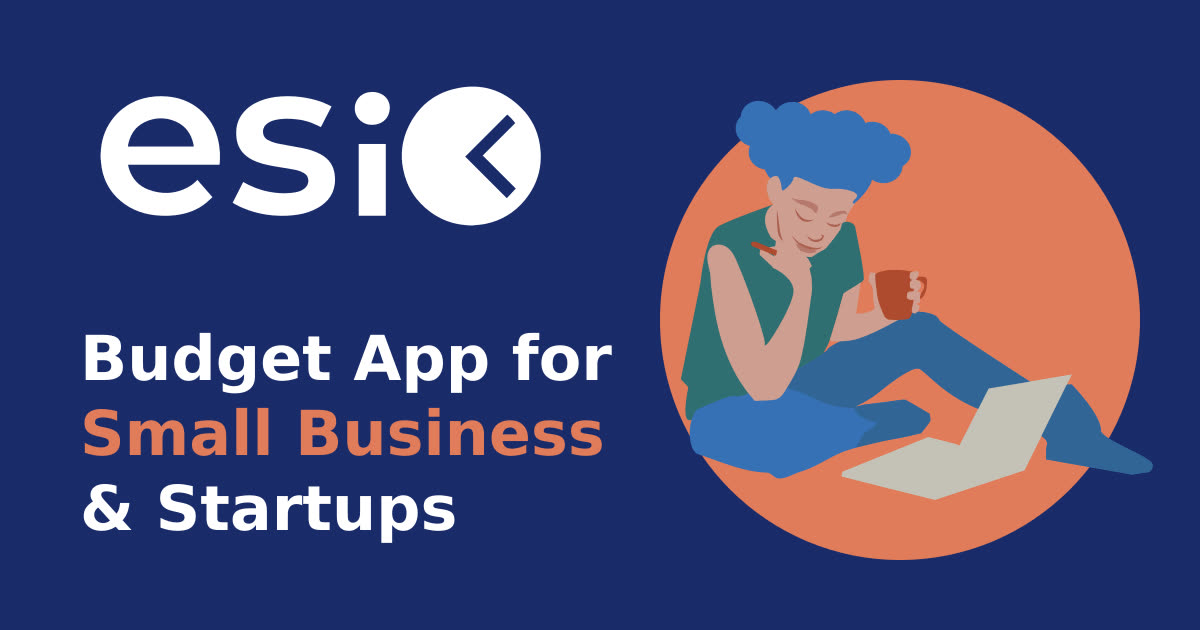
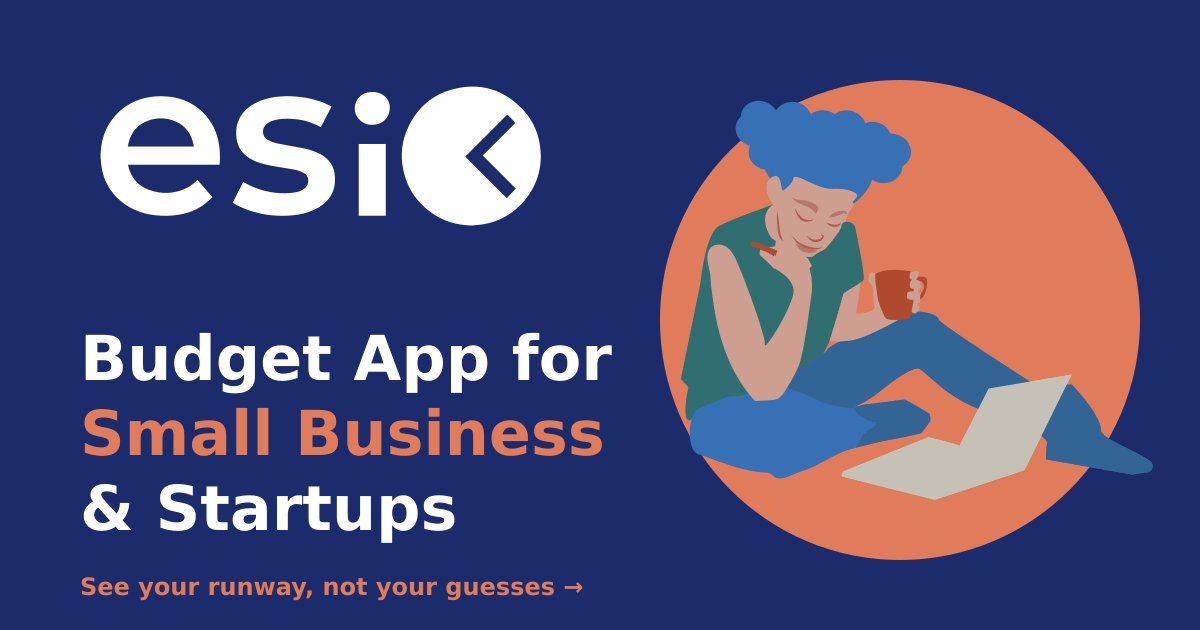
Add og card fixes

diff --git a/themes/esio-theme/layouts/_partials/head/opengraph.html b/themes/esio-theme/layouts/_partials/head/opengraph.html
@@ -13,9 +13,17 @@
   articles) flip to "article" so social platforms render byline + date.
 */ -}}
 
-{{- /* Title */ -}}
+{{- /* Title — for the home page, compose brand + tagline so social cards
+       have a meaningful headline instead of just the 4-char brand name.
+       Mirrors the <title> tag in baseof.html. */ -}}
 {{- $title := .Title -}}
-{{- if .IsHome -}}{{- $title = site.Title -}}{{- end -}}
+{{- if .IsHome -}}
+  {{- with site.Params.description -}}
+    {{- $title = printf "%s — %s" site.Title . -}}
+  {{- else -}}
+    {{- $title = site.Title -}}
+  {{- end -}}
+{{- end -}}
 
 {{- /* Description */ -}}
 {{- $description := site.Params.description -}}

diff --git a/themes/esio-theme/layouts/_partials/sections/hero.html b/themes/esio-theme/layouts/_partials/sections/hero.html
@@ -14,6 +14,9 @@
         <div class="pill"><span class="dot"></span>{{ . }}</div>
       {{- end }}
     </div>
+    {{- with $data.tagline }}
+      <span class="tag tag-t">{{ . }}</span>
+    {{- end }}
     <h1>{{ $data.headline.prefix }}<br><em>{{ $data.headline.emphasis }}</em><br>{{ $data.headline.suffix | safeHTML }}</h1>
     <p class="hero-p">{{ $data.paragraph }}</p>
     <div class="btns">
